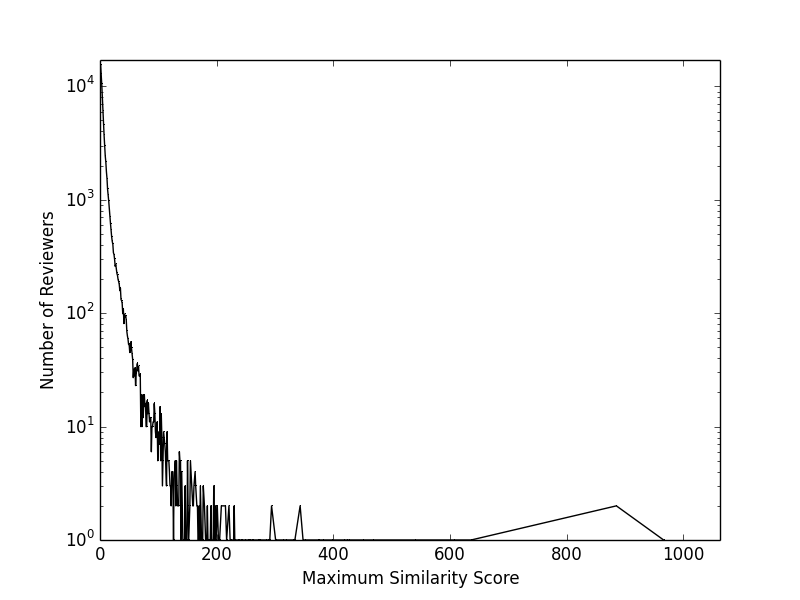
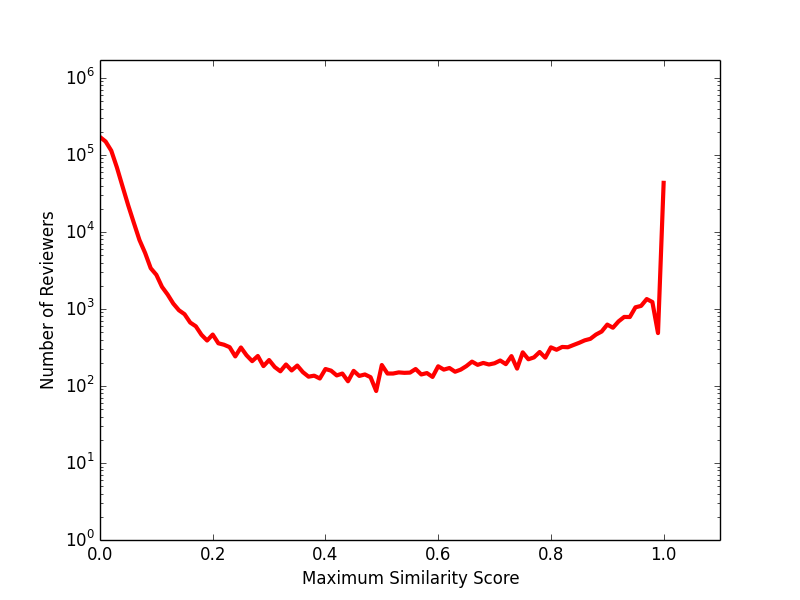
change some plot features

diff --git a/summary_plot.py b/summary_plot.py
@@ -65,7 +65,7 @@ def get_reviewer_similarity(reviewer_content_dict):
 				similarity_list.append(max(jd_list))
 	return similarity_list
 
-def save_graph(dict, saveFilename, xlabel='Num Reviews', ylabel='Num Members', use_log=[True,True], log_base=[10, 10], plot_type='rx', title='', color='red'):
+def save_graph(dict, saveFilename, xlabel='Num Reviews', ylabel='Num Members', use_log=[True,True], log_base=[10, 10], plot_type='rx', title='', color='red', lw=1):
 	"""
 	作图
 	给定的x_list和y_list作图，并根据一定的参数进行修饰
@@ -79,17 +79,18 @@ def save_graph(dict, saveFilename, xlabel='Num Reviews', ylabel='Num Members', u
 		ax.set_xscale('log', basex=log_base[0])
 	if use_log[1]:
 		ax.set_yscale('log', basey=log_base[1])
-	plt.plot(x_list, y_list, plot_type)
+	plt.plot(x_list, y_list, plot_type, linewidth=lw)
 	plt.ylabel(ylabel)
 	plt.xlabel(xlabel)
 	plt.title(title)
-	# plt.axhline(y=0.1, color='black', alpha=0.5)
-	# plt.axhline(y=0.2, color='black', alpha=0.5)
-	# plt.axhline(y=0.3, color='black', alpha=0.5)
-	# plt.axhline(y=0.4, color='black', alpha=0.5)
-	# plt.axhline(y=0.5, color='black', alpha=0.5)
-	# plt.axhline(y=0.6, color='black', alpha=0.5)
-	plt.axis([0, float(max(x_list))*1.1, 1, float(max(y_list))*1.1])
+	# plt.set_linewidth(lw)
+	# plt.axhline(y=10, color='black', alpha=0.5)
+	# plt.axhline(y=100, color='black', alpha=0.5)
+	# plt.axhline(y=1000, color='black', alpha=0.5)
+	# plt.axhline(y=10000, color='black', alpha=0.5)
+	# plt.axhline(y=100000, color='black', alpha=0.5)
+	# plt.axhline(y=1, color='black', alpha=0.5)
+	plt.axis([0, float(max(x_list))*1.1, 1, float(max(y_list))*10])
 	plt.savefig(saveFilename)
 
 def jaccard_distance(word1_set, words2_set):
@@ -139,7 +140,7 @@ def get_reviews_similarity_relation(jd_list):
 	# rs_relation_dict = {'0.0':0, '0.1':0, '0.2':0, '0.3':0, '0.4':0, '0.5':0, '0.6':0, '0.7':0, '0.8':0, '0.9':0, '1.0':0}
 	rs_relation_dict = {}
 	for jd in jd_list:
-		key = str(math.floor(jd / 0.1) / 10)
+		key = str(math.floor(jd / 0.01) / 100)
 		if key not in rs_relation_dict.keys():
 			rs_relation_dict[key] = 0
 		rs_relation_dict[key] += 1
@@ -154,36 +155,37 @@ def get_reviews_similarity_relation(jd_list):
 # save_graph(get_reviews_similarity_relation(get_jd_list(fu.get_content_list()[3000:8000])), 'review_similarity.png', use_log=[False, True], plot_type='bo-')
 
 if __name__ == '__main__':
-	fu = file_util.FileUtil()
-	final_dict = {}
-	for x in xrange(1,2):
-		fu.open_file('../AmazonDataBackup/reviewsNew/reviewsNew' + str(x))
-		fu.get_structure()
-		count_dict = get_reviews_feedbacks_relation(fu.get_feedback_list())
-		for feedback, num in count_dict.iteritems():
-			if feedback not in final_dict.keys():
-				final_dict[feedback] = 0
-			final_dict[feedback] += num
+	# fu = file_util.FileUtil()
+	# final_dict = {}
+	# for x in xrange(1,2):
+	# 	fu.open_file('../AmazonDataBackup/reviewsNew/reviewsNew' + str(x))
+	# 	fu.get_structure()
+	# 	count_dict = get_reviews_feedbacks_relation(fu.get_feedback_list())
+	# 	for feedback, num in count_dict.iteritems():
+	# 		if feedback not in final_dict.keys():
+	# 			final_dict[feedback] = 0
+	# 		final_dict[feedback] += num
 
-	print final_dict
+	# print final_dict
 	# final_dict = {'5.0': 3360942, '2.0': 316981, '1.0': 482862, '4.0': 1170336, '3.0': 507449}
 	# c = collections.OrderedDict(sorted({'0.9': 92, '0.8': 42, '1.0': 332, '0.1': 707, '0.0': 66243127, '0.3': 54, '0.2': 50, '0.5': 22, '0.4': 23, '0.7': 27, '0.6': 21}.items()))
-	c = collections.OrderedDict(sorted(final_dict.items()))
+	# c = collections.OrderedDict(sorted(final_dict.items()))
 	# values = c.values()
 	# values = [float(value) for value in values]
 	# sum_rating_num = sum(values)
 	# for key in c.keys():
 	# 	c[key] = c[key] / sum_rating_num
 	# print c
-	save_graph(c, 'graphs/reviewer_similarity.png', use_log=[False, True],  xlabel='Maximum Similarity Score', ylabel='Number of Reviewers', plot_type='k,-')
+	# save_graph(c, 'graphs/reviewer_similarity.png', use_log=[False, True],  xlabel='Maximum Similarity Score', ylabel='Number of Reviewers', plot_type='k,-')
 	# print str(math.floor(0.348473 / 0.1) / 10)
 	# print get_reviews_similarity_relation([0.4232,0.123123, 0.986, 0.9999, 0.0])
 
 
-	# fu = file_util.FileUtil()
-	# fu.open_file('../AmazonDataBackup/reviewsNew.txt')
-	# fu.get_structure()
+	fu = file_util.FileUtil()
+	fu.open_file('../AmazonDataBackup/reviewsNew.txt')
+	fu.get_structure()
 	# save_graph(get_reviews_products_relation(fu.get_productId_list()), 'reviews_products.png', xlabel='Num Reviews', ylabel='Num Products')
+	save_graph(get_reviews_rating_relation(fu.get_rating_list()), 'reviews_rating.png', xlabel='Rating', ylabel='NPercent of Reviews')
 	# save_graph(get_reviews_reviewers_relation(fu.get_memberId_list()), 'reviews_reviewers.png')
 	# with open("reviewer_similarity_relation_1") as fp:
 	# 	line = fp.readline()

diff --git a/multi_process.py b/multi_process.py
@@ -190,7 +190,7 @@ def draw_graph(dirname, title, xlabel, ylabel):
 					# jd_list += sub_list
 	# print len(jd_list)
 	print jd_dict
-	# summary_plot.save_graph(collections.OrderedDict(sorted(jd_dict.items())), 'graphs/' + dirname + '.png', use_log=[False, True], plot_type='bo-', xlabel=xlabel, ylabel=ylabel, title=title)
+	summary_plot.save_graph(collections.OrderedDict(sorted(jd_dict.items())), 'graphs/' + dirname + '.png', use_log=[False, True], plot_type='r,', xlabel=xlabel, ylabel=ylabel, title=title, lw=3)
 
 
 
@@ -202,7 +202,7 @@ if __name__ == '__main__':
 	# 	time_dict[put_num] = finish_time
 	# print time_dict
 	# draw_graph('jaccard_distance_11wan', xlabel='Similarity Score', ylabel='Num Pairs', title='')
-	# draw_graph('reviewer_similarity', xlabel='Maximum Similarity Score', ylabel='Number of Reviewers', title='')
+	draw_graph('reviewer_similarity', xlabel='Maximum Similarity Score', ylabel='Number of Reviewers', title='')
 
-	draw_review_distance_multiprocess(put_num=1000000, list_num=110000)
+	# draw_review_distance_multiprocess(put_num=1000000, list_num=110000)
 	# draw_reviewer_similarity_multiprocess()
